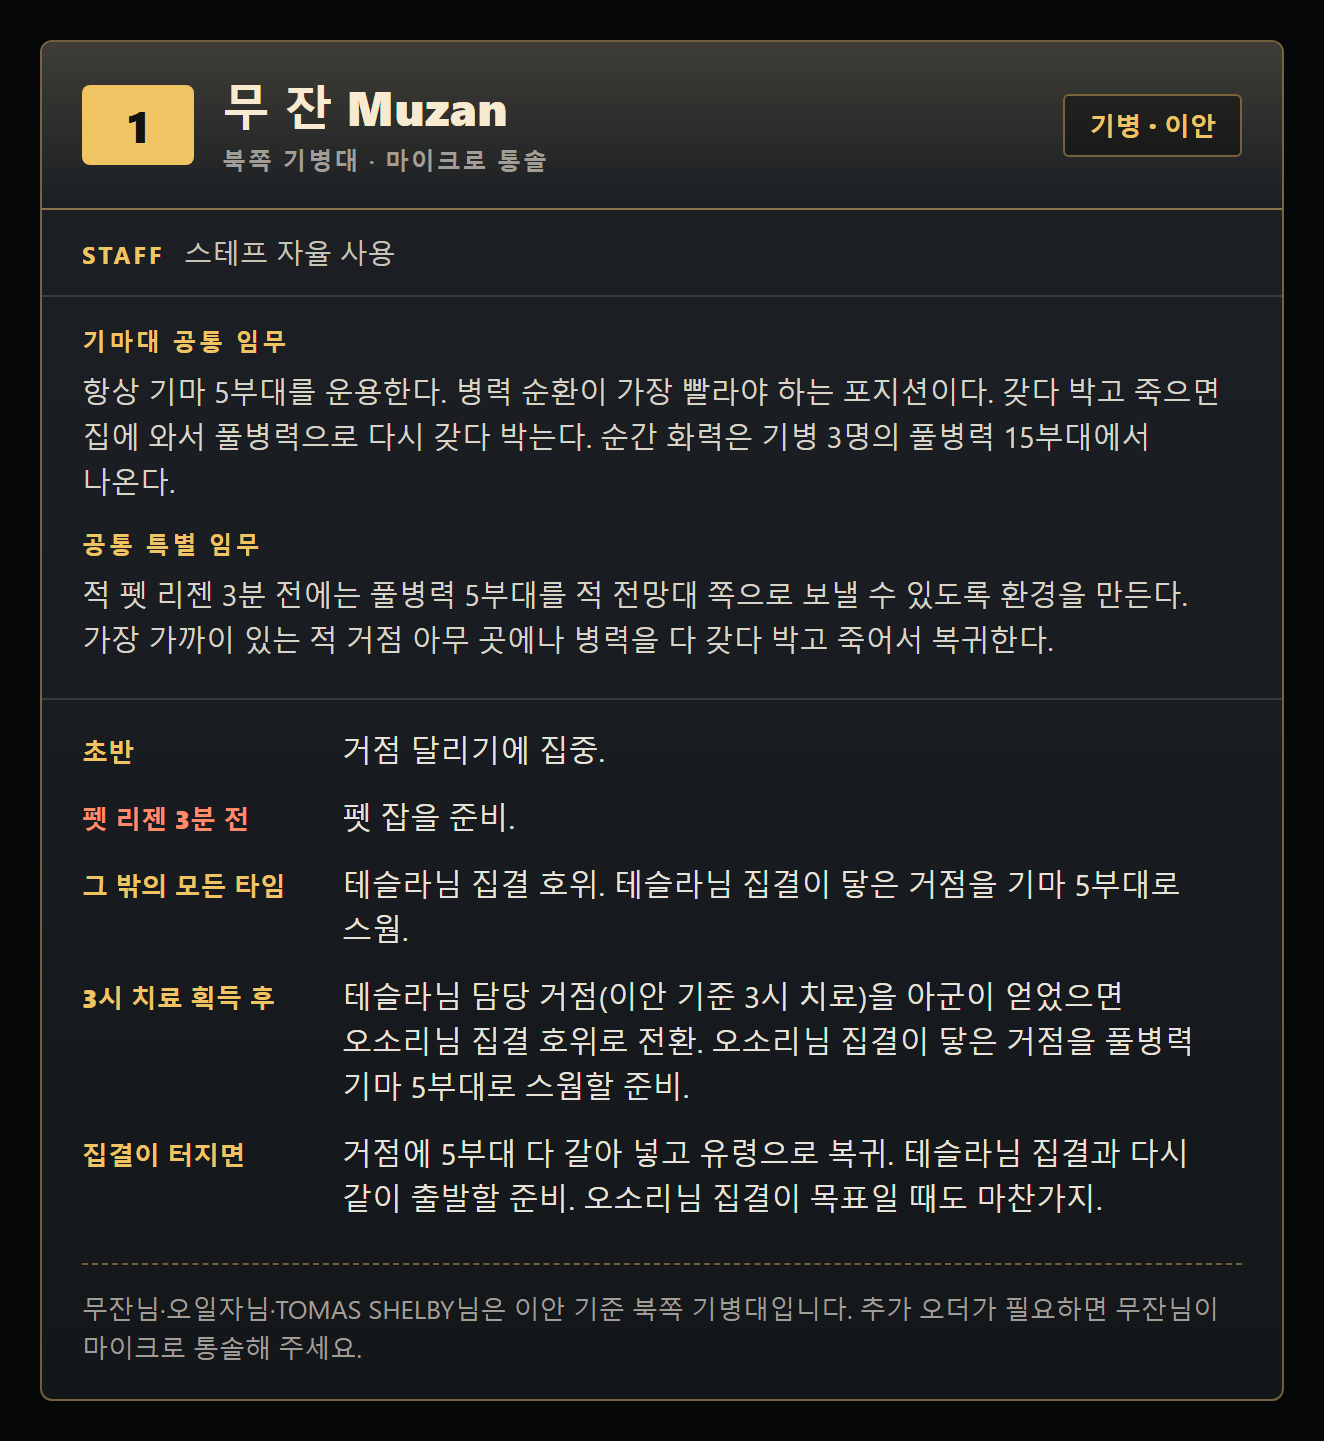
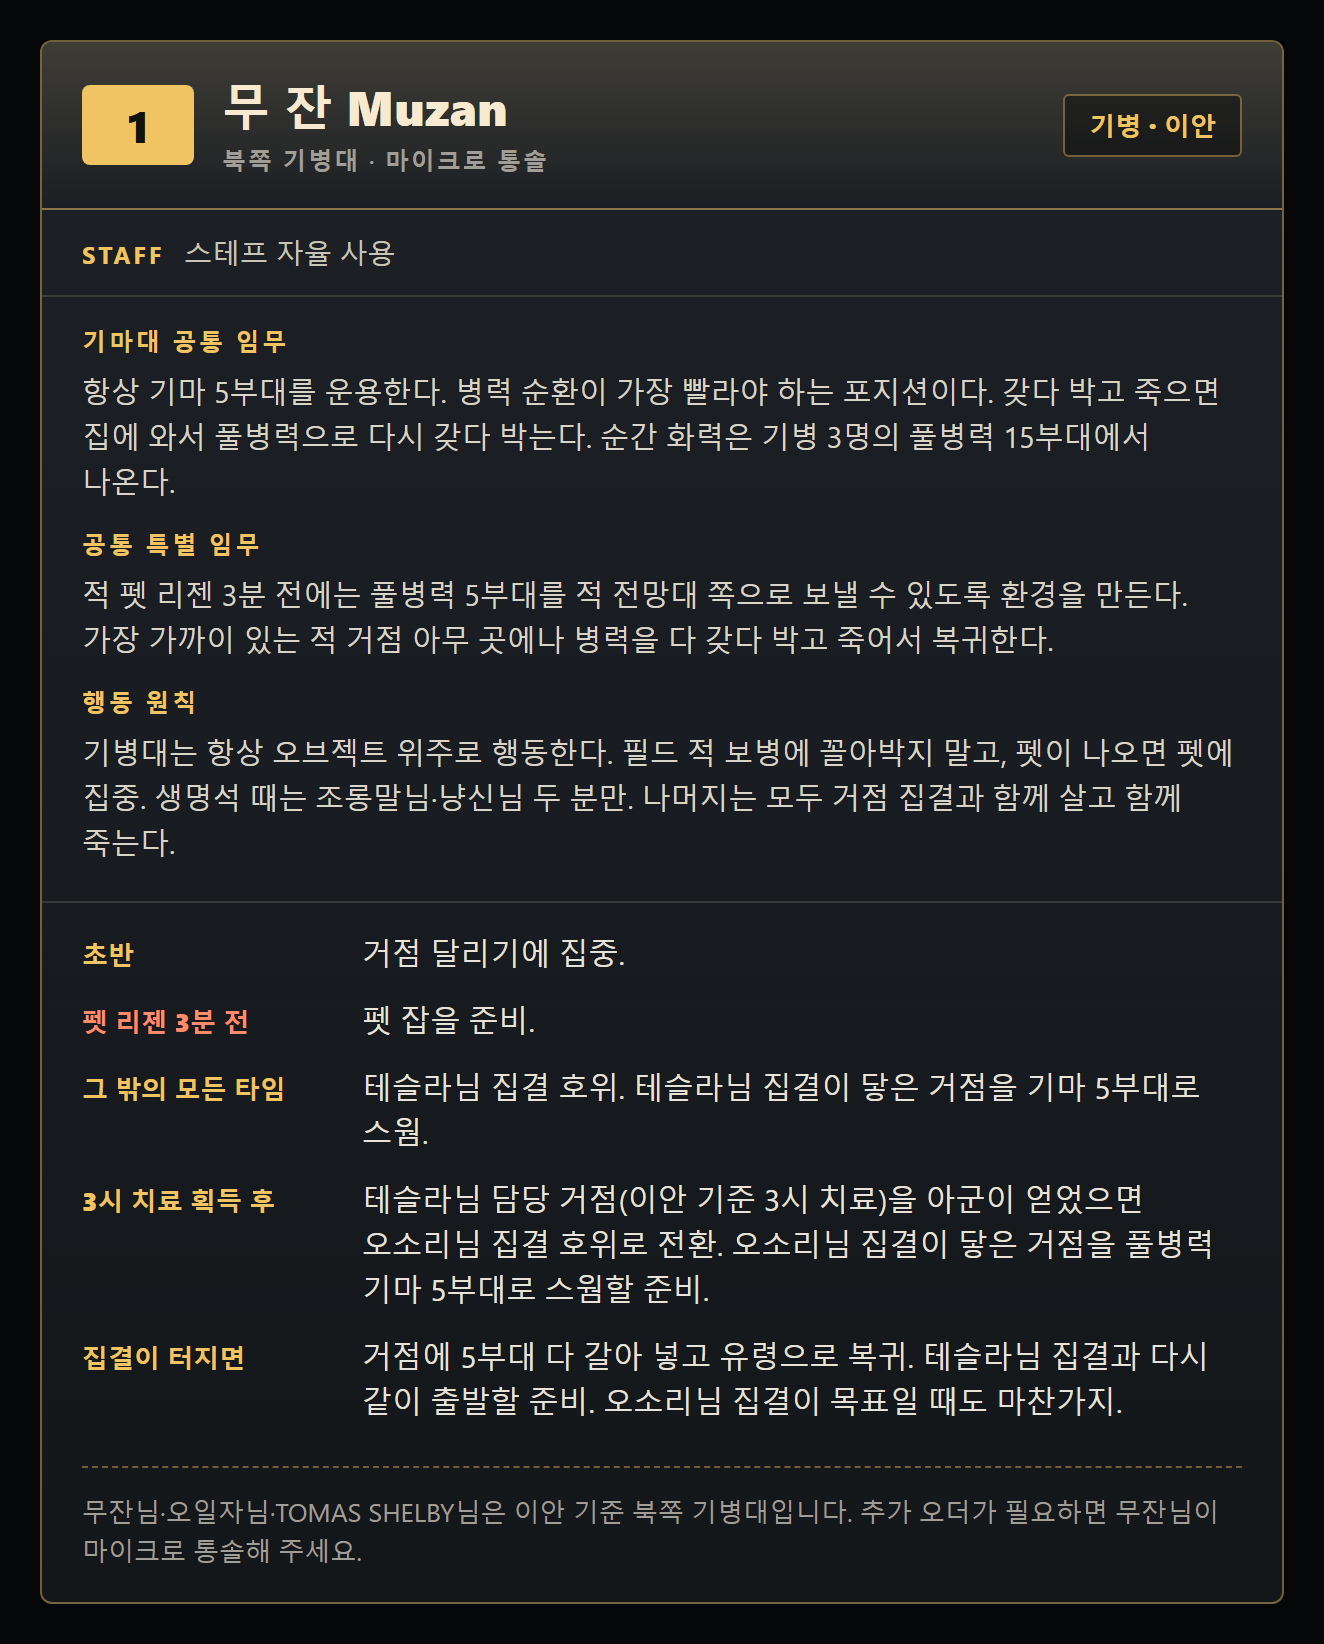
남쪽 기병대·전망대 팀·집결장 팀 임무카드 11장 추가, 기병 공통 행동 원칙 반영
카드 생성 스크립트를 팀별 데이터로 일반화해 cards/build.mjs로 옮겼다.
기병 카드에는 오브젝트 위주 행동 원칙을 공통 항목으로 넣었고, 북쪽 3장도
그에 맞춰 다시 뽑았다. 오더에 스테프 지시가 직접 있는 집결장 카드는 공통
STAFF 줄을 빼서 두 지시가 어긋나 보이지 않게 했다.

남쪽 기병대 원문의 "진수님 담당 거점(이안 기준 3시 치료)"는 북쪽 템플릿의
잔재로 보여 시계 위치를 적지 않았다. MAHA 번호는 원문 19 대신 게임 화면의
25를 썼다.

Claude-Session: https://claude.ai/code/session_012q35UrVyhsKMpMXpVxwJuN

diff --git a/harness/PROGRESS.md b/harness/PROGRESS.md
@@ -10,7 +10,7 @@
 
 ## 마지막으로 한 일
 
-- 북쪽 기병대(무잔·오늘은일찍자야지·TOMAS SHELBY) 임무카드 PNG를 `cards/build-cavalry.mjs`로 생성(Chrome headless + sharp). 카드 문안은 스크립트 안의 CARDS. TOMAS SHELBY 병종을 기병으로 바꾸고 임무표에 기병대 5부대 행 추가.
+- 임무카드 PNG 14장(북쪽 기병대 3·남쪽 기병대 4·전망대 팀 3·집결장 팀 4)을 `cards/build.mjs`로 생성(Chrome headless + sharp). 카드 문안은 스크립트 안의 CARDS. 앱의 MISSION_SOURCE에는 아직 반영하지 않음. TOMAS SHELBY 병종을 기병으로 바꾸고 임무표에 기병대 5부대 행 추가.
 - 전투 위치 번호 재배치(2026-09-08). 신규 3명(마법공주간달프·TOMAS SHELBY·보 수)은 임무표 시트에 없어 병종을 보병으로 가정해 넣음 — 시트가 갱신되면 `PLAYER_SOURCE`·`MISSION_SOURCE` 재확인 필요. 벌꿀오소리·최산수·마 젤 란·대장군 뽀로링은 번호가 빠져 예비로 내려감(임무표의 "오소리님 집결 탑승"은 그대로라 시트 갱신 시 함께 볼 것).
 - 저장본(localStorage)의 주전/예비는 로드 때 현재 번호표로 다시 계산한다. UI의 주전/예비 토글은 세션 안에서만 유지됨.
 - 테스트 카운트 35/31/4 → 41/30/11로 갱신. 갱신 전 테스트는 이미 실패 상태였음(소스 38명·예비 8명 vs 테스트 35명·예비 4명).
